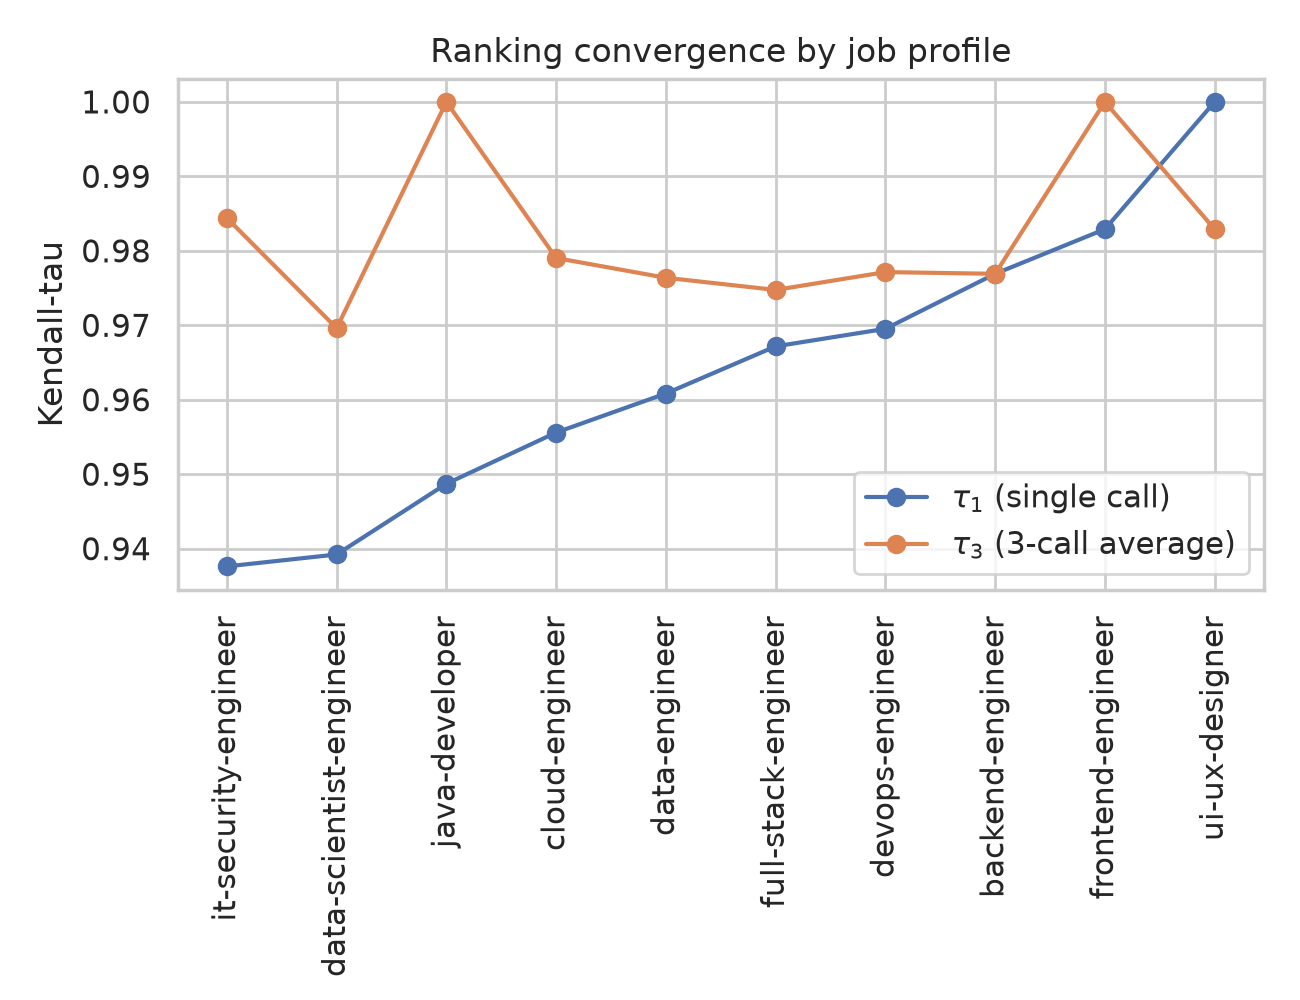
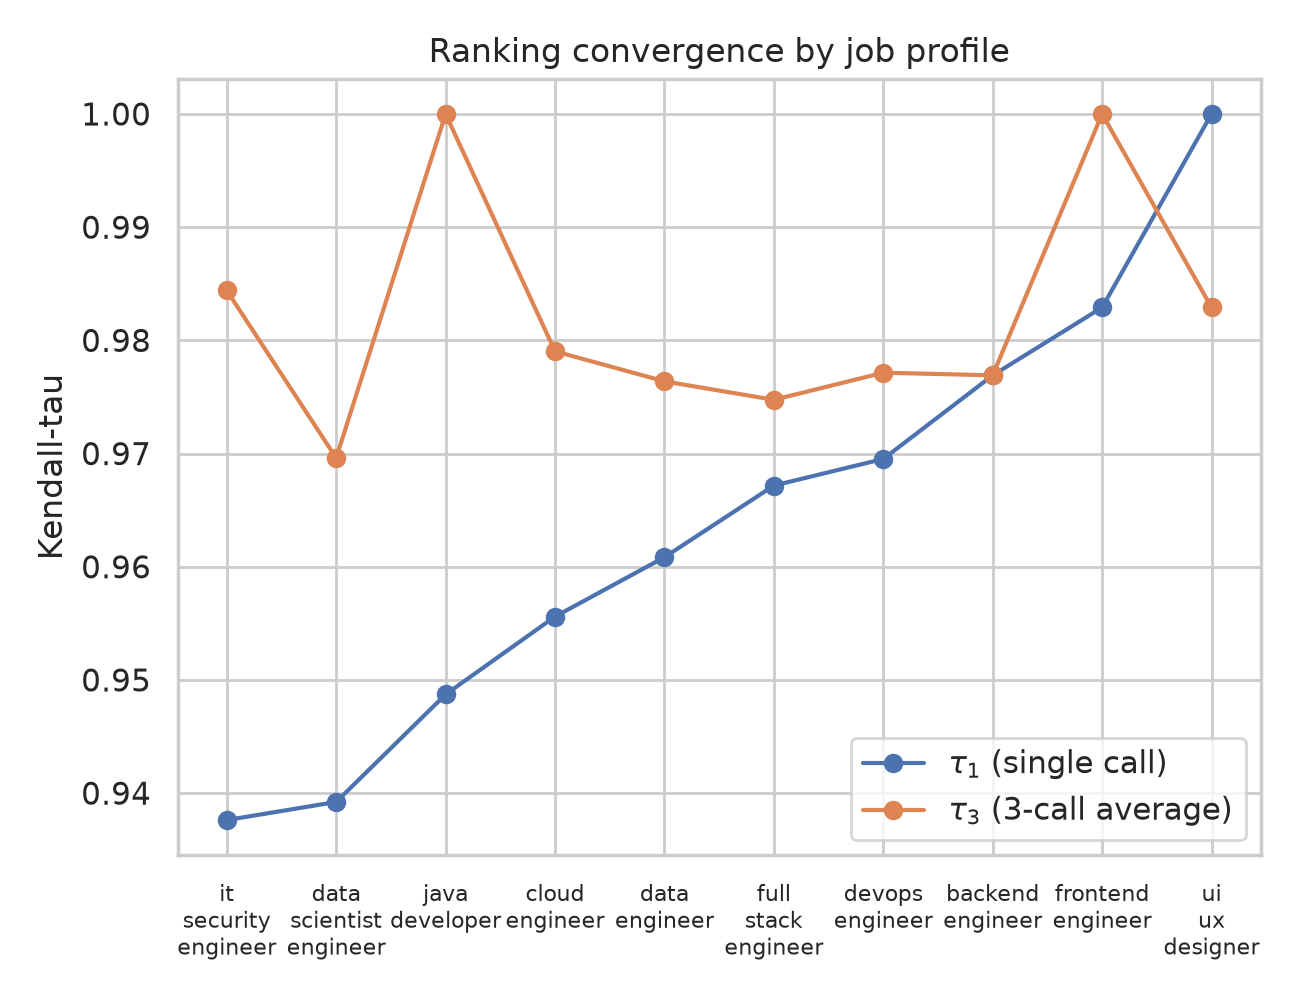
style: wrap convergence-figure x labels into 2-3 horizontal lines instead of rotating them

diff --git a/scripts/generate_convergence_figure.py b/scripts/generate_convergence_figure.py
@@ -46,10 +46,12 @@ def main(run_id: str, output_path: Path) -> None:
     ax.plot(labels, tau1, marker="o", label=r"$\tau_1$ (single call)")
     ax.plot(labels, tau3, marker="o", label=r"$\tau_3$ (3-call average)")
 
+    wrapped_labels = [label.replace("-", "\n") for label in labels]
+
     ax.set_ylabel("Kendall-tau")
     ax.set_title("Ranking convergence by job profile")
     ax.set_xticks(range(len(labels)))
-    ax.set_xticklabels(labels, rotation=90)
+    ax.set_xticklabels(wrapped_labels, rotation=0, fontsize=8)
     ax.legend(loc="lower right")
     fig.tight_layout()
 
